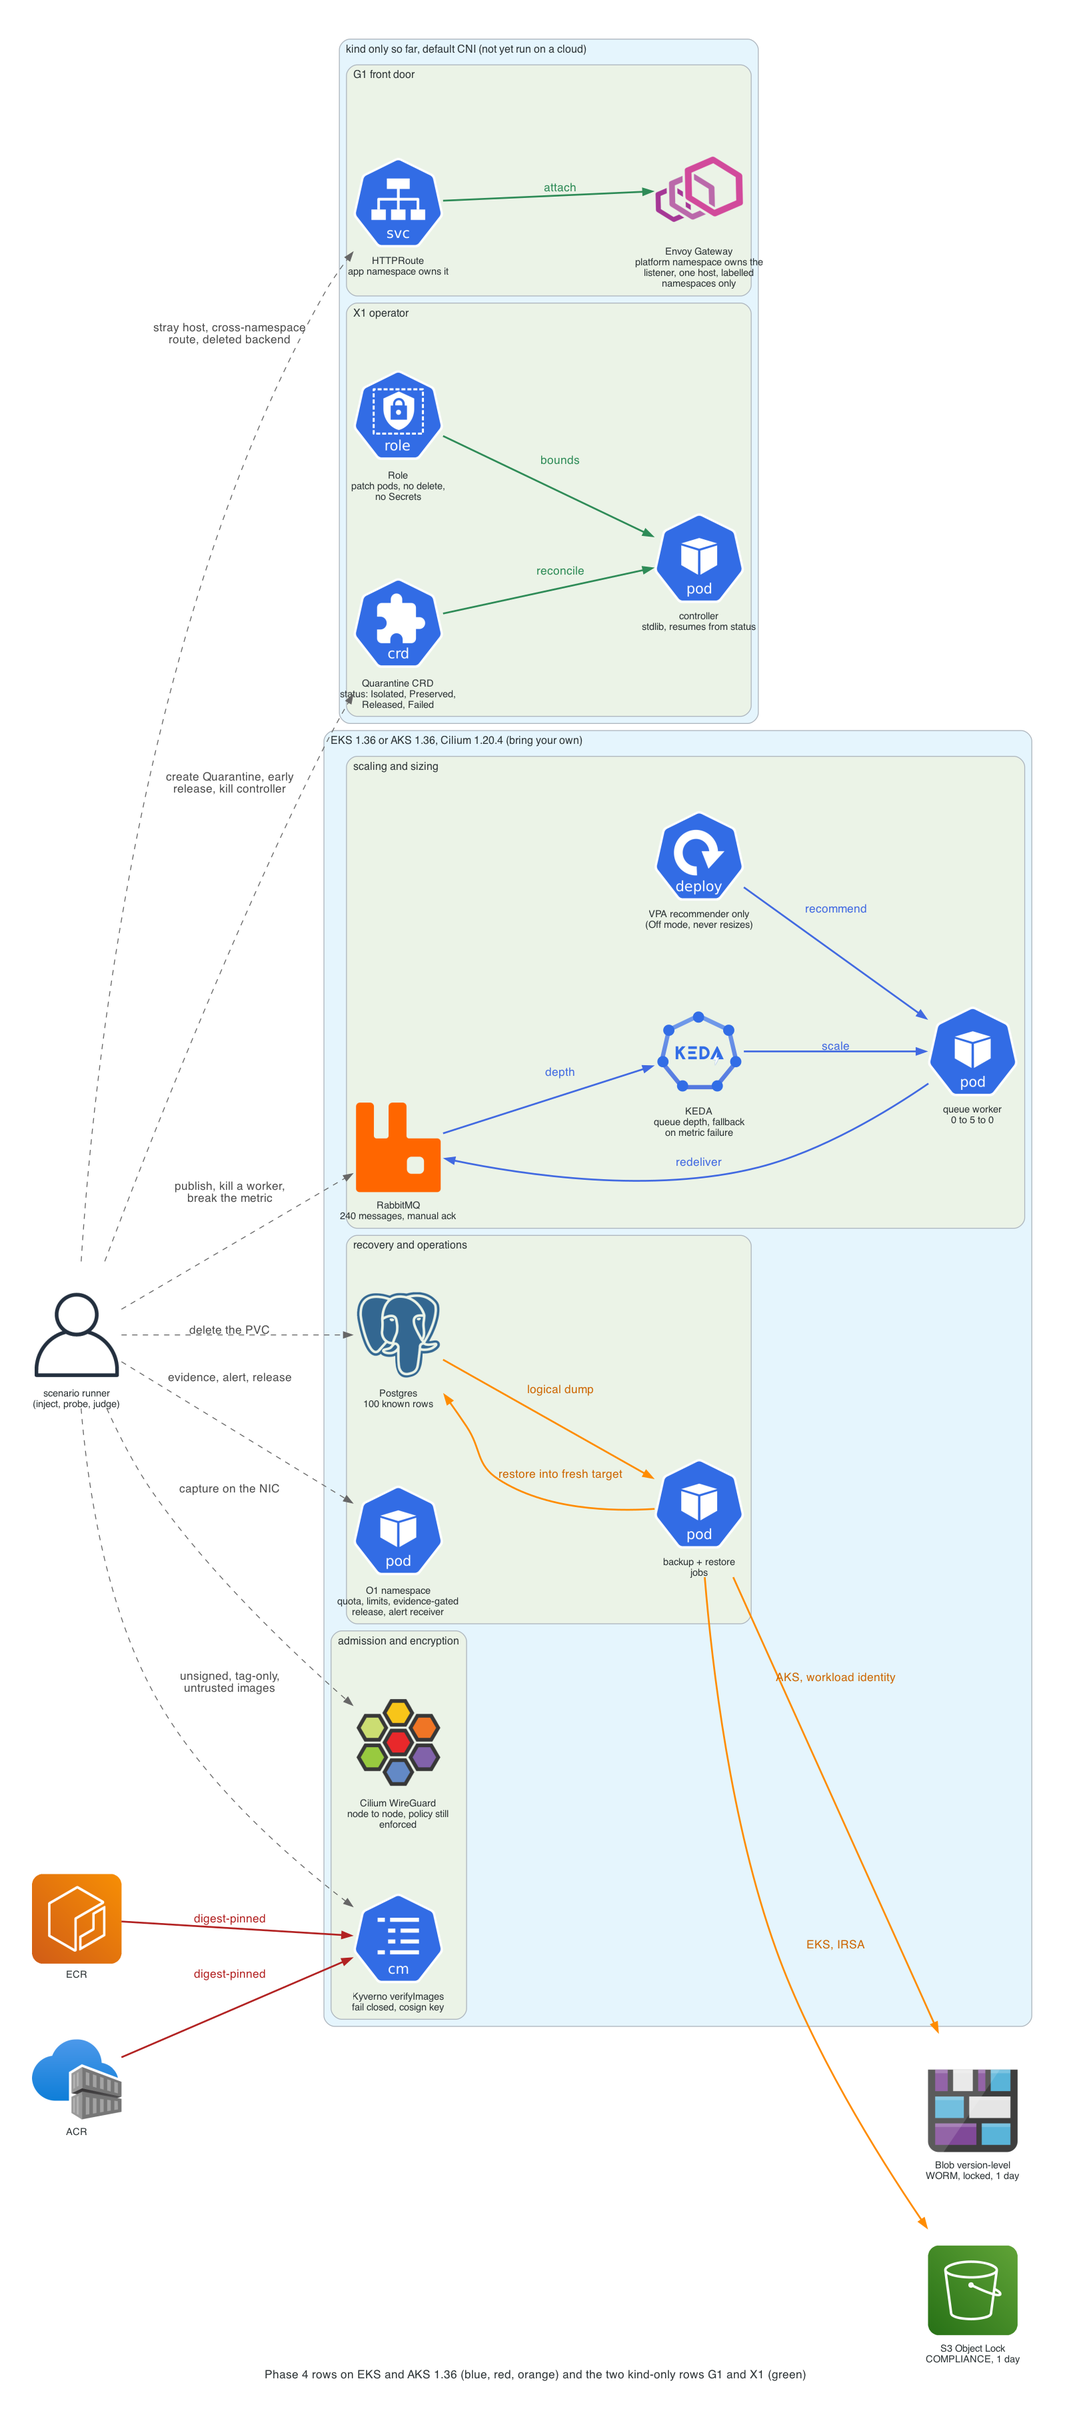
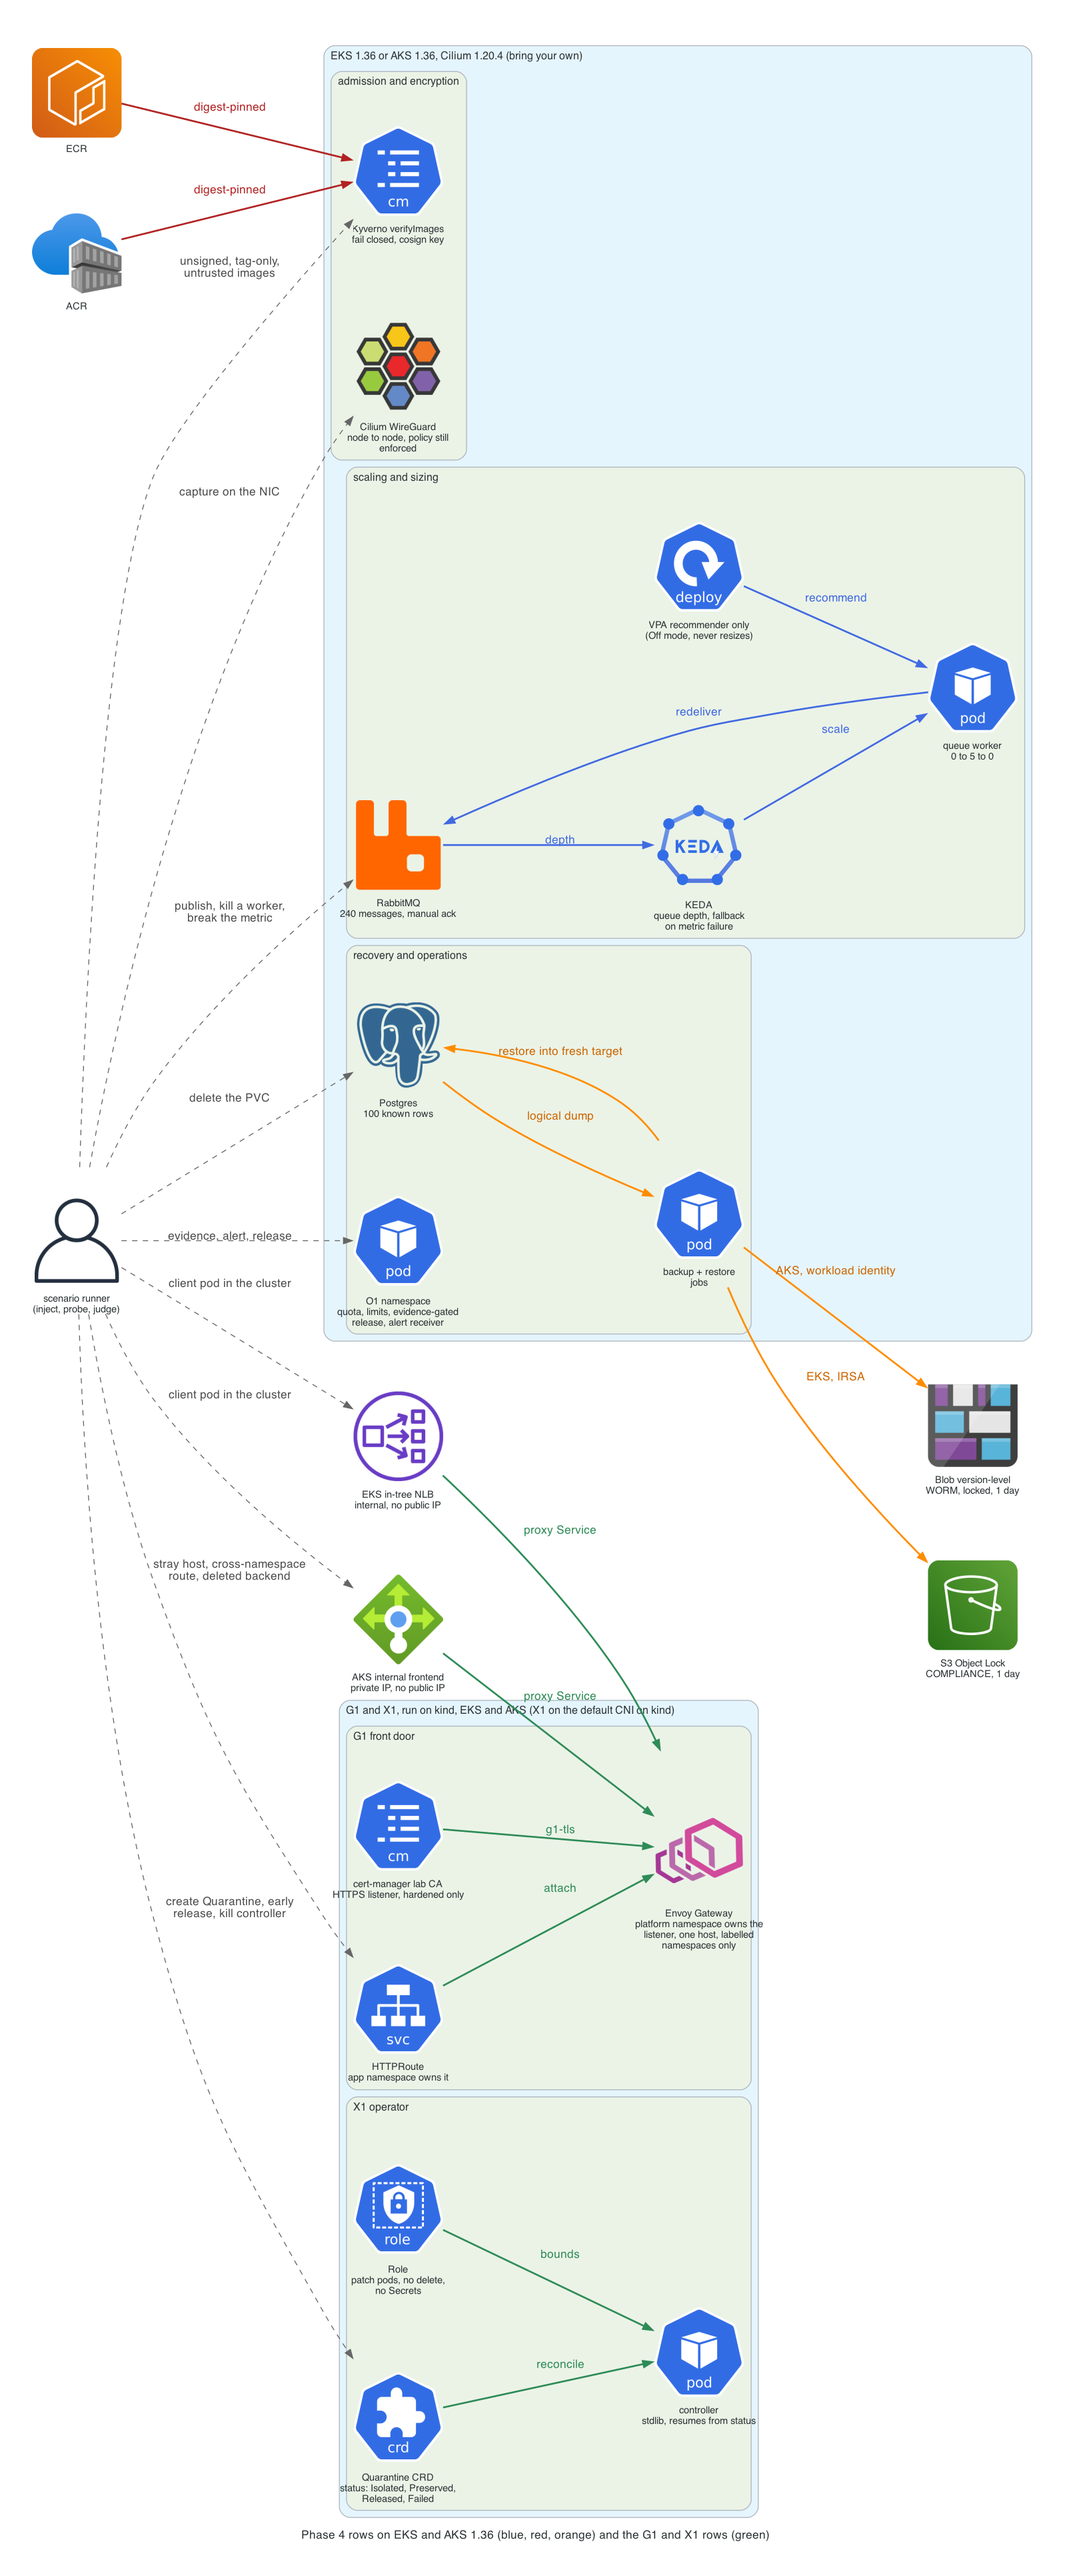
Case study: self-healing platform G1 and X1 ran on EKS and AKS, updated phase 4 diagram

diff --git a/lib/projects.ts b/lib/projects.ts
@@ -177,7 +177,7 @@ export const projects: Project[] = [
     num: "44",
     title: "Self-Healing Kubernetes Platform",
     titleOut: "(EKS + AKS + kind)",
-    desc: "A Kubernetes platform that recovers on its own from outages, security drift and an active threat, proven with before/after fault experiments instead of described. Every row states a steady-state hypothesis, injects one fault and runs twice, a baseline profile and a hardened profile, with only manifests and policy changing between the runs, while an independent prober measures user impact from outside the app. The availability matrix covers a deadlocked pod, a bad release, a 4x traffic spike, a node kill and a memory leak (probes, Argo Rollouts canary analysis, the HPA, Karpenter with PDBs and topology spread, memory limits). The drift matrix covers an API key and a database password rotated under load, a certificate renewal, a deleted network policy, a security group opened to the internet and a fleet-wide AMI change (External Secrets with Reloader, alternating-user rotation, cert-manager, Argo CD self-heal, an AWS Config rule with a custom SSM revoke, Karpenter drift one node at a time). The runtime matrix covers a shell in a web pod (Falco to Talon to a Cilium quarantine identity) and a GuardDuty Runtime Monitoring finding that drives a Step Functions responder to cordon the node, isolate the pod, swap the node security group, snapshot the volume and capture evidence with Run Command. The judge only credits a heal against a same-run baseline impact, rejects a baseline that was already failing before the fault, and treats an unmeasurable row as an error, never a skip. Phase 1 ran on kind at zero spend; phase 2 ran every row on live EKS 1.34: 11 of 13 hardened rows healed, R1 missed its 30s isolation bar on the first run (34.6s, then 16.1s on a rerun), and A4 was inconclusive because its baseline showed no impact. The same thirteen rows then ran on live AKS: 9 of 11 measurable rows healed on the first pass, a latency row missed its bar at 320 ms because AKS's managed metrics-server only signals every 60s, and a rerun through the managed KEDA add-on resolved it at 281 ms, while a runtime-threat row is kept as a permanent miss because Defender for Containers never raised its own alert across three tries. Phase 3 added seven more rows at zero spend before touching a cloud, queue-driven autoscaling with KEDA, a vertical-sizing recommender, Cilium's own WireGuard node encryption, signed-image admission with Kyverno and cosign, backup and restore against deletion-resistant object storage, and an evidence-gated release check, then ran the full twenty-row set live on both EKS and AKS. Most rows healed on both clouds; the misses are kept beside the passing reruns rather than smoothed over, among them a shared allow-all policy that silently overrode one row's specific deny on both EKS and AKS at once, because Cilium policies are additive and nothing had flagged the conflict until the AKS run's own diagnosis caught it and the EKS side turned out to carry the identical latent bug. Every cloud session was destroyed and independently verified gone afterward. Two more rows, a Gateway API front door on Envoy Gateway and a Quarantine operator the lab wrote itself, have healed on kind and have not run on either cloud yet. An integrated adversarial proof that runs this platform's containment and recovery against a live attack simulation and the network segmentation lab's own controls on one cluster is designed and accepted, not yet built.",
+    desc: "A Kubernetes platform that recovers on its own from outages, security drift and an active threat, proven with before/after fault experiments instead of described. Every row states a steady-state hypothesis, injects one fault and runs twice, a baseline profile and a hardened profile, with only manifests and policy changing between the runs, while an independent prober measures user impact from outside the app. The availability matrix covers a deadlocked pod, a bad release, a 4x traffic spike, a node kill and a memory leak (probes, Argo Rollouts canary analysis, the HPA, Karpenter with PDBs and topology spread, memory limits). The drift matrix covers an API key and a database password rotated under load, a certificate renewal, a deleted network policy, a security group opened to the internet and a fleet-wide AMI change (External Secrets with Reloader, alternating-user rotation, cert-manager, Argo CD self-heal, an AWS Config rule with a custom SSM revoke, Karpenter drift one node at a time). The runtime matrix covers a shell in a web pod (Falco to Talon to a Cilium quarantine identity) and a GuardDuty Runtime Monitoring finding that drives a Step Functions responder to cordon the node, isolate the pod, swap the node security group, snapshot the volume and capture evidence with Run Command. The judge only credits a heal against a same-run baseline impact, rejects a baseline that was already failing before the fault, and treats an unmeasurable row as an error, never a skip. Phase 1 ran on kind at zero spend; phase 2 ran every row on live EKS 1.34: 11 of 13 hardened rows healed, R1 missed its 30s isolation bar on the first run (34.6s, then 16.1s on a rerun), and A4 was inconclusive because its baseline showed no impact. The same thirteen rows then ran on live AKS: 9 of 11 measurable rows healed on the first pass, a latency row missed its bar at 320 ms because AKS's managed metrics-server only signals every 60s, and a rerun through the managed KEDA add-on resolved it at 281 ms, while a runtime-threat row is kept as a permanent miss because Defender for Containers never raised its own alert across three tries. Phase 3 added seven more rows at zero spend before touching a cloud, queue-driven autoscaling with KEDA, a vertical-sizing recommender, Cilium's own WireGuard node encryption, signed-image admission with Kyverno and cosign, backup and restore against deletion-resistant object storage, and an evidence-gated release check, then ran the full twenty-row set live on both EKS and AKS. Most rows healed on both clouds; the misses are kept beside the passing reruns rather than smoothed over, among them a shared allow-all policy that silently overrode one row's specific deny on both EKS and AKS at once, because Cilium policies are additive and nothing had flagged the conflict until the AKS run's own diagnosis caught it and the EKS side turned out to carry the identical latent bug. Every cloud session was destroyed and independently verified gone afterward. Two more rows, a Gateway API front door on Envoy Gateway and a Quarantine operator the lab wrote itself, healed on kind and then once on each of EKS and AKS, with the first AKS front door run kept as a recorded miss from a wrong clock. An integrated adversarial proof that runs this platform's containment and recovery against a live attack simulation and the network segmentation lab's own controls on one cluster is designed and accepted, not yet built.",
     tags: ["Amazon EKS", "Azure Kubernetes Service", "Karpenter", "KEDA", "Argo Rollouts", "Argo CD", "Falco", "Cilium", "Kyverno", "cosign", "GuardDuty", "Defender for Containers", "Azure Policy", "Step Functions", "Terraform", "Python"],
     categories: ["AWS", "Azure", "Kubernetes", "Reliability", "Security"],
     link: "https://github.com/jordann6/k8s-self-healing-platform",

diff --git a/lib/caseStudies.ts b/lib/caseStudies.ts
@@ -104,11 +104,11 @@ export const caseStudies: CaseStudy[] = [
       },
       {
         num: "/09",
-        heading: "Two more rows, kind only so far",
+        heading: "Two more rows, on kind, EKS and AKS",
         paragraphs: [
           "Comparing the platform to a plain Kubernetes ecosystem checklist showed two ideas it had not proven, a north-south entrance and an operator the lab wrote itself. G1 is a Gateway API front door. The first choice, Cilium's own Gateway API, was ruled out by reading its documentation, because it requires kube-proxy replacement, which none of the three targets run, and turning it on would have changed the data plane under every proven row. G1 uses Envoy Gateway instead. The platform namespace owns one listener bound to one hostname and to labelled namespaces, and the app team owns its route. Against a baseline listener that admits any namespace and host, the stray hostname and the route from another namespace were served in the baseline and got a 404 in the hardened run, and the legitimate route stayed up throughout. A route to a deleted backend failed closed and an unrouted path got a 404 in both profiles, because Gateway API isolates a broken route by itself, so only the role split counts as the hardening.",
-          "X1 is a Quarantine custom resource and a controller written for this lab. The controller isolates the named pod without restarting it, waits for evidence bound to that pod's UID, refuses a release asked for too early, and resumes from the resource's status after being killed. It was written with the standard library only, matching the other controllers in the lab, after reading showed a framework would add an unpinned dependency tree to the image. Two consecutive kind runs healed against a baseline where the manual flow released the pod with no evidence and no record. The pod was isolated in under 1.3s, a replacement controller resumed in under 2.5s with exactly one label patch, the controller refused to isolate its own pod, and its role could patch pods but not delete them or read Secrets.",
-          "Both rows have only run on kind, so neither says anything yet about EKS or AKS. The defects were instructive. Argo CD's inclusion list hid the Gateway kinds while reporting the app healthy. The controller ignored SIGTERM as PID 1, so the first controller kill kept the old pod acting for 30 seconds. On Cilium, the pod stayed reachable for 11.9 to 33.2 seconds after the controller had isolated it, past two bounds, with no cause found, so X1 moved to the default CNI and the Cilium result is recorded as unproven.",
+          "X1 is a Quarantine custom resource and a controller written for this lab. The controller isolates the named pod without restarting it, waits for evidence bound to that pod's UID, refuses a release asked for too early, and resumes from the resource's status after being killed. It was written with the standard library only, matching the other controllers in the lab, after reading showed a framework would add an unpinned dependency tree to the image. Two consecutive kind runs, then one run on each cloud, healed against a baseline where the manual flow released the pod with no evidence and no record. The pod was isolated in under 1.3s, a replacement controller resumed in under 2.5s with exactly one label patch, the controller refused to isolate its own pod, and its role could patch pods but not delete them or read Secrets. On EKS the pod was isolated in 4.6s, unreachable at 9.2s and resumed in 7.0s. On AKS the same figures were 2.6s, 13.7s and 5.6s.",
+          "Both rows then ran once on each cloud and healed, G1 behind an internal load balancer with a parity network policy and a hardened-only HTTPS listener from the lab's own certificate authority, ready in about a second. The cloud runs found what kind could not. The first AKS G1 run missed because the load balancer clock read a Gateway condition that resets on every profile switch, 759s against a 300s bar when the real provisioning took 77s, so the clock was fixed, the miss was kept beside the passing rerun, and the bar was left unchanged. The AWS in-tree provider reports a load balancer as ensured while the NLB is still provisioning, so the EKS figure of 4.0s measures the API accepting it, not a served request, and a cold first request was never measured. That provider also creates no security group of its own and opens a NodePort rule to the world, which is noted as a later tightening. Teardown rebuilt a second NLB, because the child Argo CD apps self-heal while their controller was still running, so both teardown scripts now stop the controller first. That fix has not yet run against a cluster. The defects on kind were instructive too. Argo CD's inclusion list hid the Gateway kinds while reporting the app healthy, and the controller ignored SIGTERM as PID 1, so the first controller kill kept the old pod acting for 30 seconds. On Cilium, the pod stayed reachable for 11.9 to 33.2 seconds after the controller had isolated it. Reading the Cilium source found the cause, an identity change grace period of 5s plus a random jitter of up to 30s, confirmed by setting both to 1s. The same jitter explains the spread in the runtime quarantine row's isolation times, and the defaults stay so the delay is reported, not hidden.",
         ],
       },
     ],
@@ -186,7 +186,7 @@ export const caseStudies: CaseStudy[] = [
         },
         {
           k: "Local, G1 and X1",
-          v: "Gateway API front door and a Quarantine operator on kind, no cloud yet; G1 healed in one run, X1 healed in two clean runs after a Cilium enforcement delay (11.9 to 33.2s) moved it to the default CNI",
+          v: "Gateway API front door and a Quarantine operator, healed on kind, EKS and AKS (G1 twice on kind, X1 twice on kind, once on each cloud); the 11.9 to 33.2s Cilium enforcement delay traced to its identity grace period plus jitter",
         },
         {
           k: "Destroy",

diff --git a/lib/architecture.ts b/lib/architecture.ts
@@ -57,7 +57,7 @@ export interface ArchitectureExtra extends ArchitectureImage {
 const extras: Record<string, ArchitectureExtra[]> = {
   "k8s-self-healing-platform": [
     { label: "AKS module", src: "/diagrams/k8s-self-healing-platform-aks.png", width: 3009, height: 3007 },
-    { label: "Phase 4 rows on both clouds, plus G1 and X1 on kind", src: "/diagrams/k8s-self-healing-platform-phase4.png", width: 1607, height: 3623 },
+    { label: "Phase 4 rows plus G1 and X1, on both clouds", src: "/diagrams/k8s-self-healing-platform-phase4.png", width: 1607, height: 3863 },
   ],
   "eks-network-segmentation": [
     { label: "AKS variant", src: "/diagrams/eks-network-segmentation-aks.png", width: 1642, height: 2424 },
